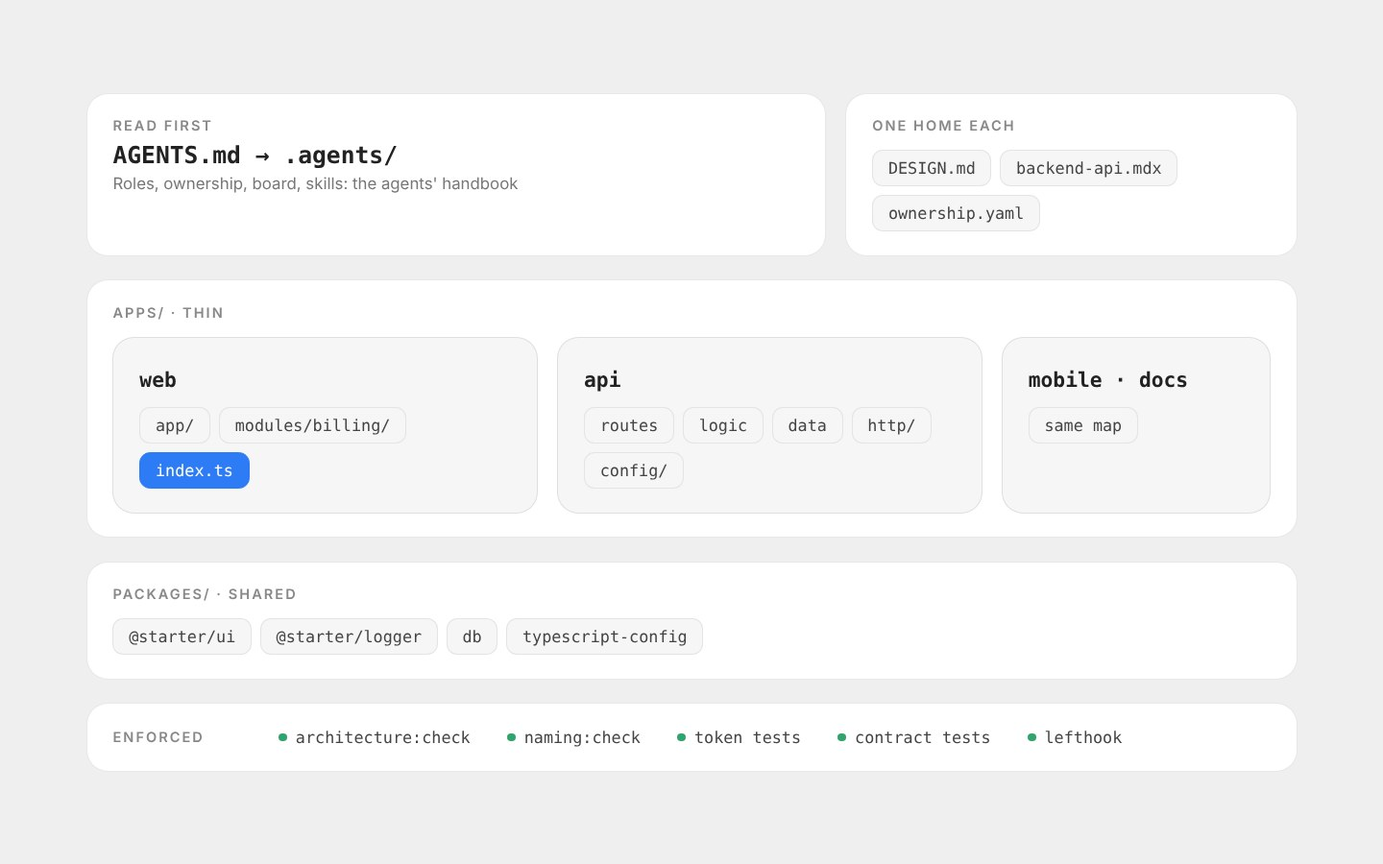
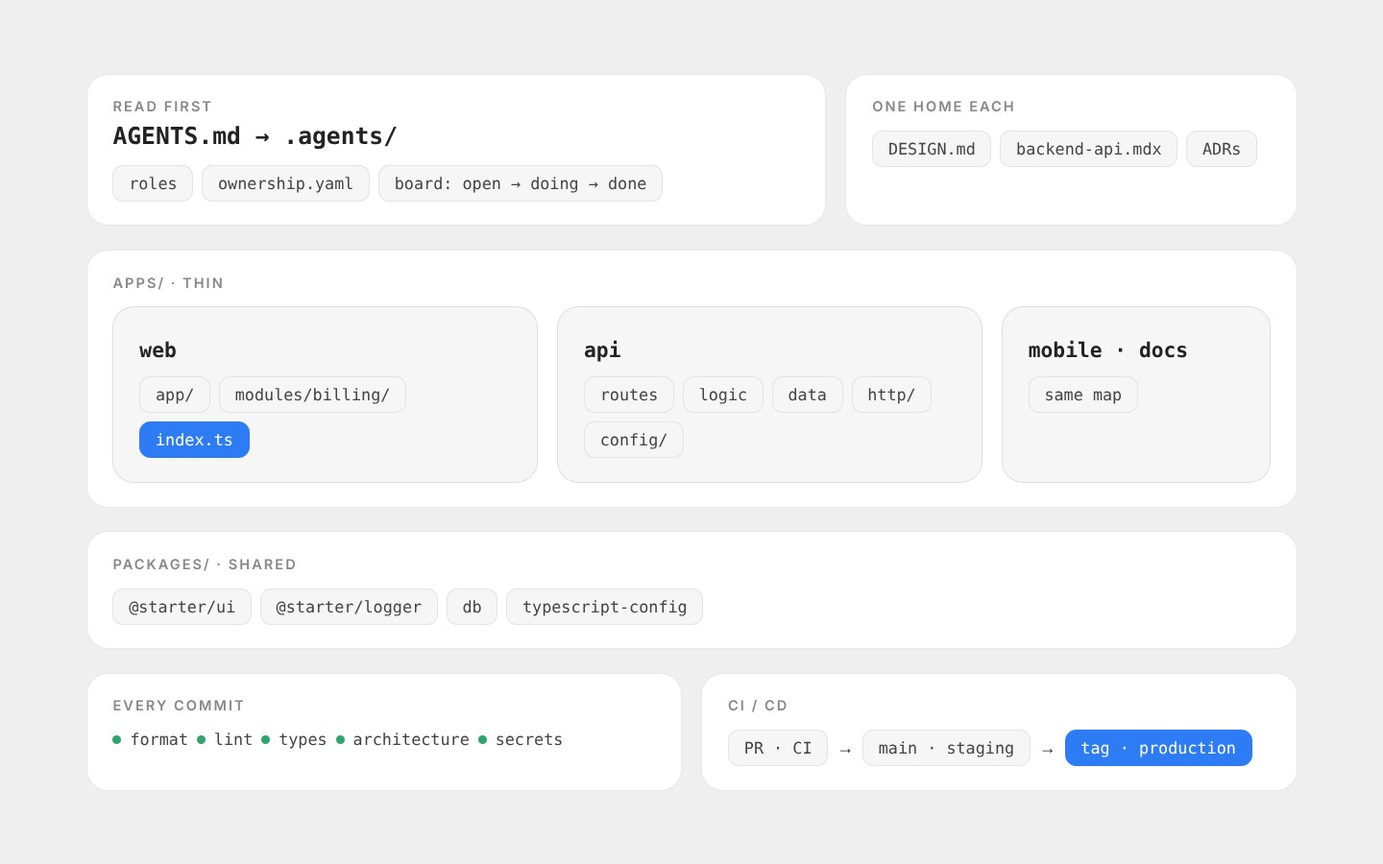
docs(writing): rewrite the architecture post in plain english with domains, contracts, board and ci/cd
Claude-Session: https://claude.ai/code/session_01CYduFyNbTVGxrphFp7dopH

diff --git a/content/writing/architecture-for-the-agent-era.md b/content/writing/architecture-for-the-agent-era.md
@@ -1,91 +1,241 @@
 ---
 title: "Architecting a project for the agent era"
 slug: architecture-for-the-agent-era
-excerpt: "How I structure a codebase so coding agents can read it, change it and not break it"
-standfirst: "When agents write most of the code, the architecture stops being a diagram in someone's head. It becomes the instructions every agent reads before it touches a file. These are the patterns from RabtX Starter and Grid that make that work."
+excerpt: "Domains, modules, contracts, the agent board, the checks on every commit, and CI/CD, explained point by point"
+standfirst: "When coding agents write most of the code, the way you structure a project matters more than ever. Here is how I set up RabtX Starter and Grid, piece by piece, and why each piece is there."
 publishedAt: 2026-10-12
 cover: /writing/architecture-for-the-agent-era.jpg
 ---
 
-::lead A coding agent does not remember your last architecture meeting. It opens the repository cold, reads what it can find, and copies the patterns it sees. So the structure of the codebase is now the most important prompt you will ever write. Every project at RabtX starts from the same monorepo, RabtX Starter, and Grid grew out of it. This is the architecture they share and why each piece is there.
+::lead An AI agent does not remember last week's meeting. Every time it starts, it opens the project fresh, reads what it can find, and copies the patterns it sees. If the project is messy, the agent makes more mess, only faster. If the project is clear, the agent follows it. So today, good architecture is not only for people. It is the set of instructions every agent reads before it touches your code.
 
-## Architecture is now the prompt
+Every project at RabtX starts from the same monorepo, RabtX Starter, and Grid grew out of it. This post walks through how they are built, one piece at a time. For each piece I will say what it is, why it is there, and what it looks like in the real code.
 
-A human joining a team learns the unwritten rules over weeks: where things go, what not to import, which file is the real source of truth. An agent gets none of that. It has the files in front of it and the instructions you point it to, and it will happily invent a fourth way of doing something if the first three are not obvious.
+## The big idea
 
-That changes what good architecture means. It is no longer enough for the structure to be sensible. It has to be **legible** (an agent can find the right place for a change), **bounded** (a change in one place cannot quietly reach everywhere), and **enforced** (when a rule is broken, a machine says so before a person has to).
+Here is the whole post in three words: **clear, bounded, checked.**
 
-## The shape: one monorepo, thin apps, shared packages
+- **Clear:** an agent can quickly find where a change belongs.
+- **Bounded:** a change in one place cannot quietly break something somewhere else.
+- **Checked:** when a rule is broken, a machine says so before a person has to.
 
-Starter is a Bun workspaces and Turborepo monorepo with every app and every shared package in one place:
+Everything below is one of those three ideas in practice.
+
+## 1. Start with domains, not folders
+
+Before any code, I split the product into **domains**. A domain is one area of the business with its own words and its own rules. In Grid the domains are things like auth, workspaces, projects, billing, notifications and the runner. In School OS they are students, guardians, attendance and messages.
+
+Each domain owns its own rules. For example, Grid's workspace domain says:
+
+- A workspace is the company. It owns projects and billing.
+- There are three roles: **owner**, **admin** and **member**.
+- A workspace always keeps at least one owner.
+- If you are not a member of a workspace, it answers `404`, exactly like one that does not exist.
+
+**Why this matters for agents:** when the rules have one home, an agent working on billing cannot accidentally break how workspaces work. And when you ask an agent to "add a role", it knows exactly which domain to open.
+
+I also start as a **modular monolith**: one deployable API, split inside into clean domain modules. It is simple to run and simple to debug. If one domain ever needs to become its own service, the boundary is already there, so you can cut along it.
+
+## 2. One repository for everything
+
+All apps and all shared code live in one monorepo, managed with Bun workspaces and Turborepo:
 
 ```text filename="rabtx starter"
 starter/
 ├── apps/
-│   ├── web/          # Next.js: routes, admin, auth, billing
-│   ├── mobile/       # Expo
-│   ├── nest-api/     # the API: modules, common HTTP pieces, validated config
+│   ├── web/          # Next.js web app
+│   ├── mobile/       # Expo app
+│   ├── nest-api/     # the API
 │   ├── docs/         # the only home for project docs
-│   ├── ai-api/       # optional FastAPI service, never public
+│   ├── ai-api/       # optional AI service, never public
 │   └── rust/         # optional Rust service
 ├── packages/
-│   ├── ui/           # primitives every app shares
-│   ├── logger/       # one structured logger, TS and Rust
+│   ├── ui/           # UI pieces every app shares
+│   ├── logger/       # one logger for every app
 │   └── typescript-config/
-├── .agents/          # rules, roles, board, skills: the agents' handbook
-├── scripts/          # architecture and naming checks, git hooks
-├── AGENTS.md         # read this first
+├── .agents/          # the agents' handbook: rules, roles, board
+├── scripts/          # checks and git hooks
+├── AGENTS.md         # "read this first"
 └── DESIGN.md         # the design system, in words
 ```
 
-The rule behind it is short: **keep apps thin and put reusable behaviour in packages.** An app is routing, composition and the parts that are genuinely its own. Anything two apps need lives in a package with a name like `@starter/ui`, imported the same way everywhere.
+The rule is simple: **apps stay thin, and shared code goes in packages.** An app is its pages, its routes and the parts that truly belong only to it. If two apps need the same thing, it moves into a package and both import it the same way.
 
-For agents, the monorepo is the point. One clone holds the API, the web app and the UI kit, so an agent changing an endpoint can see every caller of it. One lint, format, typecheck and test surface means one command proves the whole change. And one copy of each shared piece means an agent cannot "fix" a button in one app and leave the other three behind.
+**Why this matters for agents:**
 
-## Modules with one front door
+- **It sees everything at once.** When an agent changes an API endpoint, it can find every screen that calls it, in the same clone.
+- **One command checks it all.** Lint, typecheck and tests run across every app with a single command.
+- **No copies drift apart.** There is one button component, so an agent cannot fix it in one app and forget the other three.
 
-Inside an app, features are modules, and every module has exactly one public entrypoint: its `index.ts`. Everything else in the folder is private.
+## 3. How to structure a module
 
-```text filename="apps/web/src"
-app/          # routing and composition only
-modules/      # one folder per feature: auth, billing, chat, users…
-  billing/
-    index.ts  # the front door: what other code may import
-    …         # components, data and logic, private to the module
-components/   # reusable visual pieces
-lib/          # framework-agnostic helpers
+Inside an app, each feature is a **module**: one folder per feature. Here is a real one, the inbox in Grid's console:
+
+```text filename="apps/console/src/modules/inbox"
+inbox/
+├── index.ts                   # the front door
+├── components/
+│   ├── inbox-screen.tsx
+│   └── inbox-screen.test.tsx
+├── stores/
+│   ├── inbox.ts
+│   └── inbox.test.ts
+├── services/
+│   └── inbox.service.ts       # talks to the API
+├── lib/
+│   ├── kinds.tsx
+│   ├── opened.ts
+│   └── opened.test.ts
+└── types/
+    └── inbox.types.ts
 ```
 
-A route imports `@/modules/billing`, never `@/modules/billing/components/plan-card`. That one rule gives an agent a map: to use a feature, read its `index.ts`; to change a feature, stay inside its folder. It also means a module's insides can be refactored freely, because nothing outside depends on them.
+The rules for a module:
 
-This is not a convention I hope agents follow. It is a check:
+1. **One front door.** `index.ts` lists what other code may use: the screen, the store, the types. Everything else is private to the module.
+2. **Same folders every time.** `components` for UI, `stores` for state, `services` for API calls, `lib` for small helpers, `types` for types. An agent that has seen one module knows them all.
+3. **Tests live next to the code.** `opened.ts` sits beside `opened.test.ts`, so a change and its test are never far apart.
+4. **No reaching inside.** Other code imports `@/modules/inbox`, never `@/modules/inbox/lib/opened`.
+
+The app around the modules has its own clear layers too: `app/` (or `routes/`) only for routing and putting pages together, `modules/` for features, `components/` for shared visual pieces, and `lib/` for helpers that do not depend on any framework.
+
+**Why the front door matters:** it gives an agent a map. To *use* a feature, read its `index.ts`. To *change* a feature, stay inside its folder. And because nothing outside depends on a module's insides, you can refactor them freely.
+
+## 4. The same layers in every API
+
+The API follows one shape, whatever the framework:
+
+1. **Routes** at the top. They read the request, check the input, call the logic and send the reply. They stay thin.
+2. **Logic** in the middle. This is where the domain rules live, as plain functions or services.
+3. **Data** at the bottom. Only this layer talks to the database.
+
+Things every request needs, like errors, input validation, the sign-in check, rate limits and request ids, live in their own shared folder.
+
+In Starter's NestJS API, each domain module has a `users.module.ts`, `users.service.ts`, `users.repository.ts` and `users.types.ts`. Shared HTTP pieces sit in `src/common/` and settings in `src/config/`.
+
+Grid later moved from NestJS to Hono on Bun, and **the shape did not change**. Each module has a `routes.ts`, its input schemas, plain functions for logic and queries, and tests beside them. Shared pieces moved to `src/http/`, and the database schema and migrations moved to a shared `packages/db`.
+
+**Why this matters:** you could swap the whole framework and keep the map. An agent that learned where things go in one project already knows where they go in the next.
+
+## 5. The API contract: one page, and tests that prove it
+
+The **contract** is the promise the API makes to everyone who calls it: the web app, the mobile app, the runner, other agents. In Grid, it lives on one page in the docs, `backend-api.mdx`. For every endpoint it lists the method, path, who may call it, and what goes in and out.
+
+The rules around it:
+
+- **Callers read it first.** Before a web agent uses an endpoint, it reads the contract, not the API's code.
+- **Change the code, change the contract, in the same commit.** If a backend agent changes a public endpoint, it updates the page in the same change.
+- **Every change goes in a changelog,** with the date and whether it breaks anything. For example: *"Signup needs an invite token unless the owner opens signup. Breaking: yes."*
+
+A page can still lie, so the contract is also **tested**. Grid has a contract test suite that does not look at the code at all. It starts a real API with its own fresh database and calls it over HTTP, like a real client would, checking every response the apps depend on. When Grid moved from NestJS to Hono, this suite is what proved nothing broke for the people using the API.
+
+There is a small story in that suite too. It once pointed at the developer's everyday API by default, and it filled that database with test accounts. Now it refuses to run unless you name a throwaway API on purpose. **Good architecture is full of small rules like that, each one learned from a real mistake.**
+
+## 6. The agent board: how work gets assigned
+
+Agents do not just "start coding". Every change starts as a **card** on a board, and the board is plain Markdown files in the repo:
+
+```text filename=".agents/board"
+board/
+├── open/     # raised, waiting for someone
+├── doing/    # claimed and in progress
+└── done/     # finished, kept forever as history
+```
+
+A card says exactly what to build and where. Here is the top of a real Grid card:
+
+```yaml filename="a real card"
+title: Toasts for action feedback, and a faster new-task flow
+from: ui-ux
+to: web
+assignee: codex
+reviewer: claude
+branch: agent/web/console-toasts
+worktree: ../grid-worktrees/agent/web/console-toasts
+scope:
+  - apps/console/src/ui/toast.tsx
+  - apps/console/src/ui/toast.test.tsx
+  - apps/console/src/modules/projects/components/new-task-dialog.tsx
+```
+
+Here is what each part means, and why it is there:
+
+- **Roles.** Every agent works as one role: backend, web, UI/UX, QA, reviewer or PM. Each role has a short charter saying what it owns and what it must not touch.
+- **Ownership map.** `.agents/ownership.yaml` lists which folders each role may change. The default is "deny": if a path is not yours, you do not write to it. Reading is open to everyone.
+- **Scope.** The card lists the exact files the change may touch. It can be narrower than the role, never wider. If the agent finds a problem outside its scope, it raises a new card for the owner instead of fixing it on the side.
+- **A branch and a worktree per card.** Each card gets its own branch, like `agent/web/console-toasts`, and its own copy of the repo on disk. Two agents never edit the same checkout, so they cannot step on each other.
+- **A different reviewer.** The agent that wrote the code never reviews it.
+- **Evidence, not "done".** Before a card closes, the agent records which files changed, which checks it ran and their real results, whether the contract changed, and the commit. "It works on my machine" is not evidence.
+
+The contract for agents even sorts mistakes by how serious they are. A genuine blocker reported honestly is fine. Missing evidence must be fixed before merge. Editing outside the scope means the work comes back. Claiming tests passed when they did not, or committing a secret, removes that agent's right to merge.
+
+**Why all this:** most bad agent work I have seen is not bad code. It is **drive-by changes**: a refactor nobody asked for, a file reformatted, a test quietly loosened. A clear scope and a different reviewer stop that before it starts.
+
+## 7. The checks on every commit, and why
+
+Every commit runs a set of checks first, using git hooks (Lefthook). If any check fails, the commit does not happen. Here is each one, and the reason it exists:
+
+| Check | What it does | Why |
+| --- | --- | --- |
+| Trailing whitespace | Removes stray spaces at line ends | Keeps diffs clean, so reviews show real changes only |
+| Format | Formats every file (oxfmt, shfmt and others) | Nobody argues about style, and agents cannot make "format-only" noise |
+| Lint | Runs oxlint and fixes what it can | Catches bugs and bad patterns while they are cheap to fix |
+| Typecheck | Runs TypeScript across every app | A type error in one package breaks every app that uses it |
+| Architecture check | Blocks deep imports and bad cross-app imports, and checks file names | Keeps the module "front doors" and boundaries real, not just written down |
+| Large files | Refuses any file over 2 MB | Stops build output, videos or dumps from bloating the repo forever |
+| Secret scan | Looks for private keys, API keys, passwords and tokens in what you added | A secret in git history is very hard to remove, so stop it at the door |
+| Commit message | Requires Conventional Commits, like `feat(auth): add passkey login` | Clear history for humans, and changelogs that can be generated |
+
+The architecture check is just a few searches that must come back empty:
 
 ```bash filename="scripts/architecture/check-boundaries.sh"
-# Outside a module, consumers import public entrypoints only, not deep paths.
+# Outside a module, import its front door only, never its insides.
 rg -n 'from\s+"@/modules/[^"]+/[^"]+/[^"]+"' apps/web/src/app apps/web/src/components apps/web/src/lib
 
-# Packages stay app-agnostic and never import an app's '@/...' alias.
+# Shared packages never import an app's own '@/...' code.
 rg -n 'from\s+"@/' packages
 
 # Apps never reach into each other with relative paths.
 rg -n '\.\./\.\./apps/' apps
 ```
 
-Each search must come back empty, and the script runs in the pre-commit hook and in CI. An agent that takes a shortcut finds out in seconds, with the exact line, instead of in review a day later.
+The naming check makes every file and folder kebab-case, like `billing-page.tsx`, while still allowing names frameworks need, like `auth.service.ts`, `(auth)` and `[id]`.
 
-## The same layers in every API
+Before pushing, there is one more command: `bun run preflight`, which runs lint, typecheck and tests together.
 
-The API follows one shape: a thin transport layer, plain logic in the middle, data access at the bottom, and cross-cutting HTTP concerns kept in their own folder.
+**Why run checks on every commit, not just in CI?** Speed. An agent that breaks a rule hears about it in seconds, with the exact file and line, and fixes it right away. Without the hook it finds out ten minutes later in CI, or a day later in review, when it has long moved on.
 
-In Starter's NestJS API that is a module per feature (`users.module.ts`, `users.service.ts`, `users.repository.ts`, `users.types.ts`), with filters, interceptors, pipes and middleware in `src/common/` and configuration in `src/config/`. Controllers stay thin, business logic lives in services, and only repositories talk to the database.
+## 8. CI: every pull request proves itself
 
-Grid replaced NestJS with Hono on Bun, and the shape did not change: `src/modules/*` holds each feature's `routes.ts` plus plain functions for logic and queries, `src/http/*` holds the envelope, errors, validation, sign-in check, rate limits and request ids, and the schema and migrations moved into a shared `packages/db`.
+Nothing goes into `main` directly. Every pull request runs the full CI pipeline on GitHub Actions:
 
-That is the real test of an architecture: you can swap the framework and keep the map. An agent that learned where things go in one project already knows where they go in the next.
+1. **Lint** the whole repo, including shell scripts.
+2. **Typecheck** every app and package.
+3. **Build** every app, so we know it really compiles for production.
+4. **Test.** Unit tests run against a real Postgres database, with migrations applied first.
+5. **API contract.** A fresh Postgres is migrated and seeded, the real API starts, CI waits until its health check answers, then the contract suite runs against it.
+6. **End-to-end.** Playwright opens the web app in a real browser and clicks through it.
 
-## Validate config at the edge
+A separate **security** workflow runs on every pull request too: **dependency review** flags risky new packages, and **CodeQL** scans the code for security problems.
 
-Environment variables are the most common way a working change breaks in production, and agents add them freely. So configuration is parsed once, at startup, against a schema:
+Two small settings make a big difference. CI installs with a frozen lockfile, so it uses exactly the package versions you tested. And when you push again, the older run is cancelled, so you never wait on a result that no longer matters.
+
+**Why this matters for agents:** CI is the referee nobody can argue with. An agent cannot say "it works" when the build is red. And because CI is the same for every agent and every human, the bar is the same for everyone.
+
+## 9. CD: shipping without heroics
+
+Deploying follows the same idea: make it automatic, make it boring, and make it easy to check. Starter ships this pipeline with the deploy steps left for each project to fill in; Grid fills them in like this:
+
+- **Every merge to `main` goes to staging.** First the same quality gate runs again (preflight, plus the Rust checks). Then the API deploys to staging on Render, pinned to that exact commit. Then the pipeline **waits for the health check**. If staging is not healthy within ten minutes, the deploy fails loudly.
+- **Production only ships from a version tag**, like `v0.2.0`. Same gate, same deploy, same health check, but on purpose and never by accident.
+- **The web app and docs** deploy through their Vercel projects, and the database runs on Neon.
+- **Secrets live in GitHub environments** (`staging` and `production`), never in the repo. If a deploy secret is missing, the job stops and says which one.
+
+**Why tags for production?** Because a merge is "this code is ready", while a release is "we choose to ship this now". Keeping those two decisions apart means an agent's merged pull request can never reach your users on its own.
+
+## 10. Check the settings once, at startup
+
+Settings (environment variables) are one of the most common ways a working change breaks in production, and agents add new ones freely. So every setting is checked against a schema once, when the app starts:
 
 ```ts filename="apps/nest-api/src/config/env.schema.ts (excerpt)"
 export const envSchema = z
@@ -100,78 +250,46 @@ export const envSchema = z
 	})
 ```
 
-The app reads typed config through one config service instead of reaching for `process.env` wherever it likes. A missing or malformed value stops the process with a clear message instead of surfacing as a strange bug three requests later. And when an agent needs a new setting, there is exactly one place to add it.
+The rest of the app reads typed settings through one config service. A missing or wrong value stops the app at startup with a clear message, instead of turning into a strange bug three requests later. And when an agent needs a new setting, there is exactly one place to add it.
 
-## One home for every truth
+## 11. One home for every truth
 
-The fastest way to confuse an agent is two documents that disagree. So every kind of truth has exactly one home, and everything else links to it:
+Nothing confuses an agent faster than two documents that disagree. So each kind of truth has exactly one home, and everything else links to it:
 
 | Truth | Its one home |
 | --- | --- |
 | How to work in the repo | `AGENTS.md`, then `.agents/` |
-| Who may change which paths | `.agents/ownership.yaml` |
+| Who may change which folders | `.agents/ownership.yaml` |
 | The design system | `DESIGN.md` |
-| The API contract | `apps/docs/content/docs/backend-api.mdx` |
-| Project docs | the docs app; there is no root `docs/` folder |
-| Decisions and their reasons | ADRs under `/docs/architecture` |
+| The API contract | `backend-api.mdx` in the docs app |
+| Project docs | the docs app (there is no loose `docs/` folder) |
+| Big decisions and why | decision records under `/docs/architecture` |
 
-`.agents/` is the single source for agent rules, skills and plans, with no second copy for each editor. When a doc and the code drift, that is a bug to fix the same day, because the next agent will believe whichever one it read first.
+If a document and the code disagree, that is a bug, and it gets fixed the same day. The next agent will believe whichever one it reads first.
 
-## Names are an index
+## 12. Strong defaults, with a way out
 
-Agents navigate by search, so names are part of the architecture. Every file and folder under a TypeScript `src/` is kebab-case, with dotted roles where a framework expects them (`auth.service.ts`, `users.module.ts`) and the router's own segments allowed (`(auth)`, `[id]`, `@slot`). A naming check enforces it beside the boundary check.
+None of this is meant to be a cage. Starter's very first architecture decision says it plainly: **strong defaults, enforced by checks, with a written way to override them.** If a project needs to break a rule, it writes down why in `/docs/overrides`. A project can also add its own, stricter rules on top.
 
-It sounds small. In practice it means `billing` is always `billing`, a search for a feature finds all of it, and an agent never creates `BillingPage.tsx` next to `billing-page.tsx`.
+That is how one starter became very different products. Grid swapped the API framework and added a Solid console, but kept the same layers, the same checks and the same `.agents/` handbook. School OS runs the same Next.js, Expo and NestJS stack. The map stays the same, so an agent or a person can move between projects without learning everything again.
 
-## Give agents write boundaries
+## A checklist you can steal
 
-Reading the whole repository is fine; writing anywhere is not. Grid makes that explicit in a machine-readable map:
-
-```yaml filename=".agents/ownership.yaml (trimmed)"
-policy:
-  default: deny-unowned-writes
-  read_access: broad-for-understanding
-  write_access: card-scope-only
-
-roles:
-  backend:
-    paths: [apps/api/**, packages/db/**, apps/runner/**]
-  web:
-    paths: [apps/console/**, apps/web/**]
-```
-
-Each task is a card with a scope narrower than the role's paths, on its own branch and worktree. An agent that finds a problem outside its scope raises a card for the owner instead of fixing it in passing. I wrote about how that plays out day to day in [Building Grid with the agents it runs](/writing/building-grid-with-the-agents-it-runs); the architectural point is that the boundaries are files, so they can be read, reviewed and checked like code.
-
-## Turn rules into checks
-
-Every rule above that matters is also a test, a script or a hook, because a rule that only lives in a document is a suggestion:
-
-- **Import boundaries and naming:** `bun run architecture:check`, in pre-commit and CI.
-- **Design rules:** Grid's console fails the build on a font size outside the type scale, a one-off animation duration or a fixed corner radius.
-- **The API contract:** in Grid, a CI job migrates and seeds a real Postgres, starts the API, waits for its health check, and runs the contract suite against it.
-- **The basics on every commit:** format, lint, typecheck, the architecture check, a large-file guard, a secret scan and Conventional Commit messages, all in Lefthook.
-
-The effect on agent work is huge. Instead of reviewing every diff for the same ten mistakes, I review the intent, and the machine catches the rest with a message the agent can act on.
-
-## Strong default, overridable
-
-None of this is meant to be rigid. Starter's first architecture decision record says it plainly: strong defaults with automated guardrails, and a documented way to override them per project. An override needs a written reason in `/docs/overrides`, a project can add its own stricter rules, and overrides should add to the default rather than tear it out.
-
-That balance is what lets one starter become very different products. Grid swapped the API framework and added a Solid console, and kept the same layers, checks and `.agents/` handbook. School OS, a multi-tenant school platform, runs the same Next.js, Expo and NestJS stack. Because the map stays the same, an agent, or a person, can move between projects without relearning where things go.
-
-## A checklist for an agent-ready repo
-
-- An `AGENTS.md` at the root that says what to read, in what order.
-- Apps that are thin, and packages for anything shared.
-- One public entrypoint per module, and a check that blocks deep imports.
-- The same layers in every service: transport, logic, data, and cross-cutting concerns apart.
-- Configuration validated once, at startup, against a schema.
-- One home for each truth, linked from everywhere else.
-- Names that are consistent enough to search, enforced by a check.
-- Write boundaries in a file, and tasks scoped narrower than roles.
-- Every important rule backed by a test, a script or a hook.
-- A written path for breaking the rules on purpose.
+- Split the product into domains, and give each domain's rules one home.
+- One monorepo. Thin apps, shared packages.
+- Every module has one front door (`index.ts`) and the same folders inside.
+- Tests sit next to the code they test.
+- APIs use the same layers: routes, logic, data.
+- One contract page, updated in the same commit as the code, with a changelog.
+- Contract tests that call the real API over HTTP.
+- A board of cards with roles, an ownership map, a narrow scope and a different reviewer.
+- One branch and one worktree per card.
+- Checks on every commit: format, lint, typecheck, architecture, large files, secrets, commit message.
+- CI on every pull request: lint, typecheck, build, tests, contract, end-to-end, security.
+- Staging on every merge, production only on a tag, with health checks after both.
+- Settings checked once, at startup.
+- A written way to break the rules on purpose.
 
 ## Closing
 
-Agents made code cheap to write and expensive to trust. Architecture is how you get the trust back: a structure an agent can read, boundaries it cannot cross by accident, and checks that tell it when it tried. Get that right once, in a starter, and every project after it begins already knowing where things go.
+AI agents made code cheap to write and hard to trust. Architecture is how you win the trust back. Give agents a project they can read, boundaries they cannot cross by accident, and checks that tell them the moment they slip. Build that once, in a starter, and every project after it begins already knowing where everything goes.
